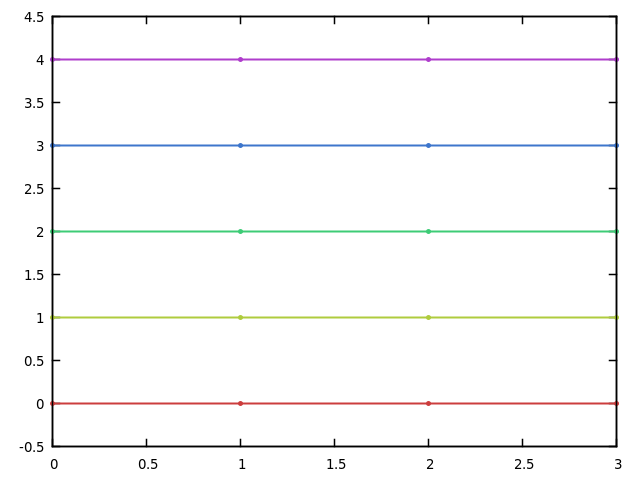
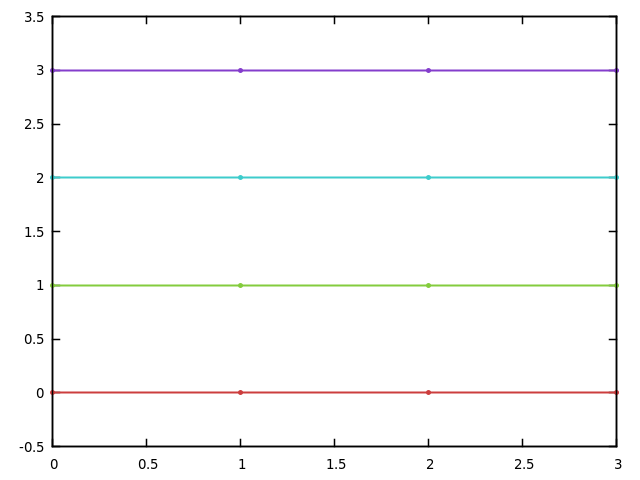
Add more examples

diff --git a/README.md b/README.md
@@ -6,7 +6,7 @@ A command line interface for gnuplot.
 
 [Gnuplot](http://www.gnuplot.info/) is a very powerfull language to make plots. However, it is very complex and, consecuently, it is difficult to make good plots without previous experience. `pl` tries to solve this issue providing a simple command to make plots in just a line of code.
 
-`pl` supports 2D plots, generating images in png such as the following one:
+`pl` supports 2D plots and generates images in png, such as the following one:
 
 ![](https://github.com/andreshp/pl/blob/master/images/example.png)
 
@@ -33,7 +33,7 @@ pl -y "Y Axis" example.csv -x "X Axis" -t "An example with pl"
 
 ### Files with data
 
-`pl` can plot multiple files at the same file. The files passed to `pl` must contain at least two columns separated by a delimiter. The first column contains the abscissas of the points to plot. Each of the other columns contains an ordinate for each abscissa, defining a point which will be plotted by `pl`. The points in the same column represent a function and are plotted with the same color. For example, the following one is a file with 5 lines:
+`pl` can plot multiple files at the same file. The files passed to `pl` must contain at least two columns separated by a delimiter. The first column contains the abscissas of the points to plot. Each of the other columns must contain an ordinate for each abscissa, defining a point which will be plotted by `pl`. The points in the same column represent a function and are plotted with the same color. For example, the following one is a file with 5 lines:
 
 ~~~
 0,0,1,2,3,4
@@ -42,7 +42,20 @@ pl -y "Y Axis" example.csv -x "X Axis" -t "An example with pl"
 3,0,1,2,3,4
 ~~~
 
-If it is plotted using `pl lines1.csv`, then we obtain an image with 5 lines:
+If it is plotted using `pl lines1.csv`, then we obtain the following image:
+
+![](https://github.com/andreshp/pl/blob/master/images/lines1.png)
+
+These kinds of graphics are very useful comparing algorithms' performance. However, algorithms data could be in different files with different abscissas' values. `pl` accepts multiple files as arguments, plotting all the data in one image. Let's consider another file with lines:
+
+~~~
+0,0.5,1.5,2.5,3.5,4.5
+1,0.5,1.5,2.5,3.5,4.5
+2,0.5,1.5,2.5,3.5,4.5
+3,0.5,1.5,2.5,3.5,4.5
+~~~
+
+Then we can plot both files at the same time (`pl lines1.csv lines2.csv`):
 
 
 
